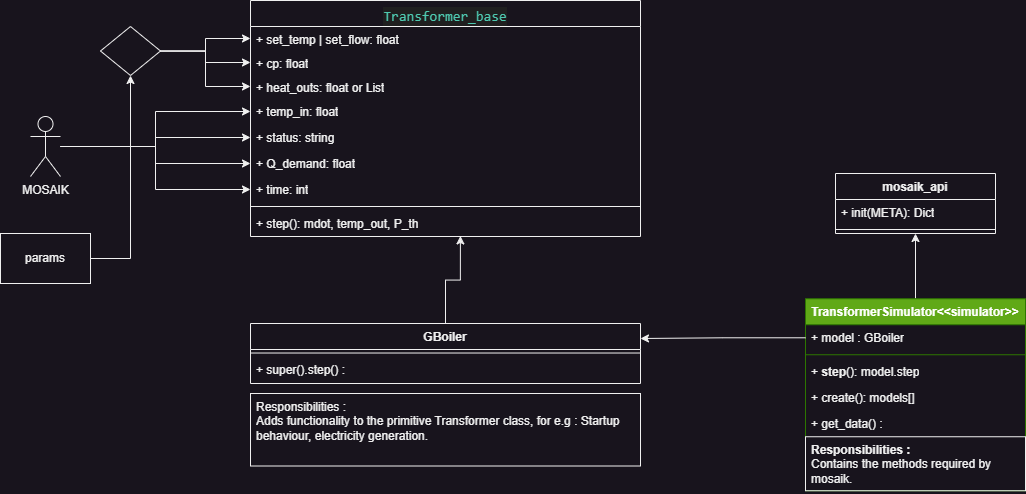
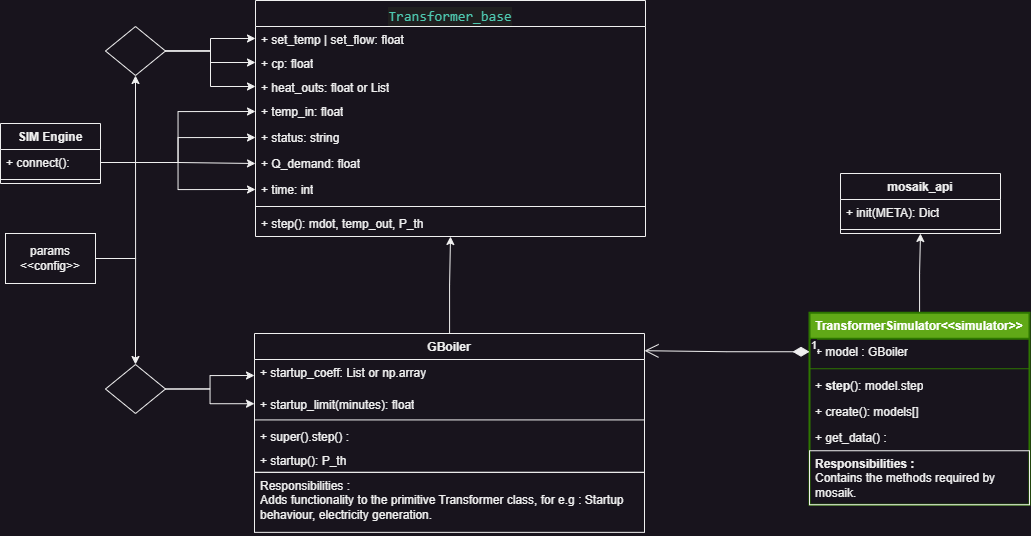
doc:chp update

diff --git a/src/models/boiler_model_v2.py b/src/models/boiler_model_v2.py
@@ -7,13 +7,25 @@ class Gboiler(Transformer_base):
         
         super().__init__(params)
         
-        # self.elec_out_cap = params.get('elec_out', None)
-        # self.elec_share = params.get('elec_share', None) 
-        # self.startup_coeff = params.get('startup_coeff') # Future : list of lists, corresponding to each power stage
-        # self.startup_time = params.get('startup_limit')
+
+        self.startup_coeff = params.get('startup_coeff', None) # Future : list of lists, corresponding to each power stage
+        self.startup_time = params.get('startup_limit', None)
+        self.step_size = None
     def step(self, time):
 
         super().step(time)
+
+        if self.startup_coeff:            
+            if len(self.heat_out_caps) <=2 and self.uptime < (self.startup_time):
+                self.P_th = 0
+                for i in range(len(self.startup_coeff)):
+                    self.P_th += self.startup_coeff[i] * self.uptime**i #i starts for 0, so will work for intercept as well.
+                 
+                self.P_th *= 1000 #Regression model was for KW #TODO rectify this!
+                if self.P_th < 0:  #for the lack of a better model :)
+                    self.P_th = 0
+            if self.step_size/60 > self.startup_time and self.uptime ==0:
+                self.P_th = (0.5 * (self.startup_time/60)*self.heat_out_caps[-1] + ((self.step_size/60-self.startup_time)/60 * self.heat_out_caps[-1]))/(self.step_size/3600)
 
 #-------------------------(Not implemented here) Mosaik Back-end-------------------------------
 META = {

diff --git a/src/models/chp_model_v2.py b/src/models/chp_model_v2.py
@@ -1,7 +1,8 @@
 import mosaik_api
 from src.models.EnTransformer import Transformer_base
+from src.models.boiler_model_v2 import Gboiler
 
-class CHP(Transformer_base):
+class CHP(Gboiler):
 
     def __init__(self, params):
         
@@ -11,22 +12,10 @@ class CHP(Transformer_base):
         self.elec_share = params.get('elec_share', None) 
         self.startup_coeff = params.get('startup_coeff') # Future : list of lists, corresponding to each power stage
         self.startup_time = params.get('startup_limit')
-        self.step_size = None
+        self.step_size = params.get('step_size', None)
     def step(self, time):
 
         super().step(time)
-
-        if self.startup_coeff:            
-            if len(self.heat_out_caps) <=2 and self.uptime < (self.startup_time):
-                self.P_th = 0
-                for i in range(len(self.startup_coeff)):
-                    self.P_th += self.startup_coeff[i] * self.uptime**i #i starts for 0, so will work for intercept as well.
-                
-                self.P_th *= 1000 #Regression model was for KW #TODO rectify this!
-                if self.P_th < 0:  #for the lack of a better model :)
-                    self.P_th = 0
-            if self.step_size/60 > self.startup_time and self.uptime ==0:
-                self.P_th = (0.5 * (self.startup_time/60)*self.heat_out_caps[-1] + ((self.step_size/60-self.startup_time)/60 * self.heat_out_caps[-1]))/(self.step_size/3600)
 
         if self.elec_share:
             self.P_el = self.P_th/self.elec_share 

diff --git a/src/main_sim.py b/src/main_sim.py
@@ -267,7 +267,8 @@ def run_DES(params):
         'elec_share' : 0.5,
         'startup_coeff' : [-2.63, 3.9, 0.57],
         'startup_limit' : 11,
-        'set_flow' : 4
+        'set_flow' : 4,
+        'step_size' : STEP_SIZE
     }
     params_boiler_uni = {'eid_prefix' : 'Boiler',
         'heat_out' : [0, 74000, 148000, 222000, 296000, 370000], #Operating points of boiler, in W

diff --git a/docs/CHP_v2.md b/docs/CHP_v2.md
@@ -2,15 +2,12 @@
 This model inherits from the `Transformer_base` class. 
 # Parameters
 - ***elec_share*** : (float)The ratio of electric power generation to thermal power generation.
-- ***startup_coeff*** : (array or List)Series of coefficients representing the startup behaviour.
-- ***startup_time*** : (float) The startup time of the CHP (in minutes). 
+
 # Structure
 There are two classes : `CHP` and `TransformerSimulator`.
 ## CHP
-This class is a child of the `Transformer_base` class.
-Here the startup behaviour and the electricity generation of the CHP is modelled.
-The startup behaviour is modelled using a linear equation, the order of which is determined by the number of coefficient provided in the parameters dictionary.
-The electricity generation is defined simply as a ratio of the thermal power generation.
+This class is a child of the `Gboiler` class.
+The electricity generation is defined here simply as a ratio of the thermal power generation.
 ## TransformerSimulator
 A child class of `mosaik_api.Simulator` class. Contains the methods requried by mosaik.  
 

diff --git a/docs/GasBoiler_v2.md b/docs/GasBoiler_v2.md
@@ -1,11 +1,13 @@
 # Gas Boiler
 This models inherits from the `Transformer_base` class. 
-
+# Parameter
+- ***startup_coeff*** : (array or List)Series of coefficients representing the startup behaviour.
+- ***startup_time*** : (float) The startup time of the CHP (in minutes). 
 # Structure
 There are two classes : `Gboiler` and `TransformerSimulator`.
 ## Gboiler
 This class is a child of the `Transformer_base` class.
-No additional functionality is required for a gas boiler, hence nothing additional is defined here.
+The startup behaviour is modelled using a linear equation, the order of which is determined by the number of coefficient provided in the parameters dictionary.
 ## TransformerSimulator
 A child class of `mosaik_api.Simulator` class. Contains the methods requried by mosaik.  
 
